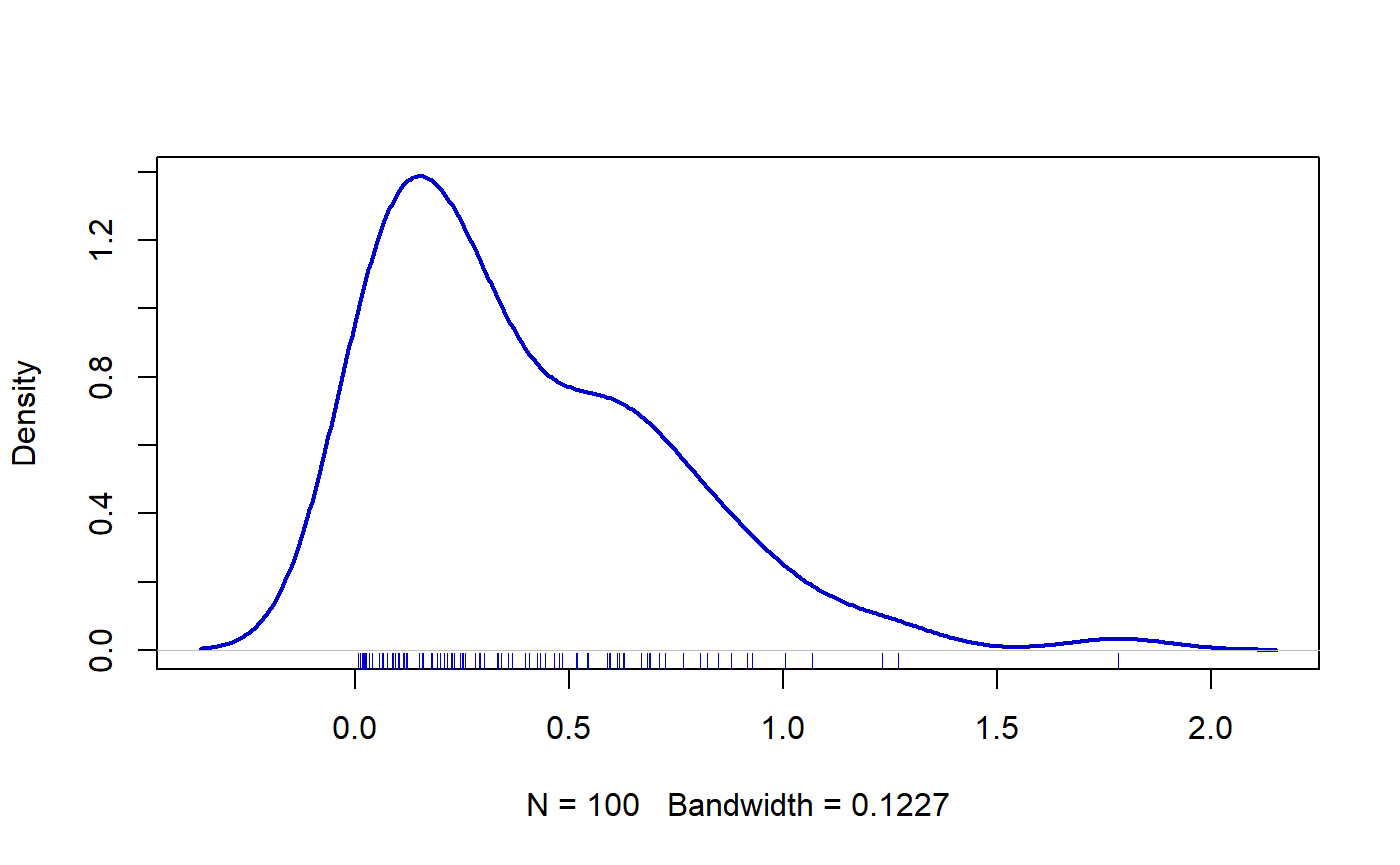
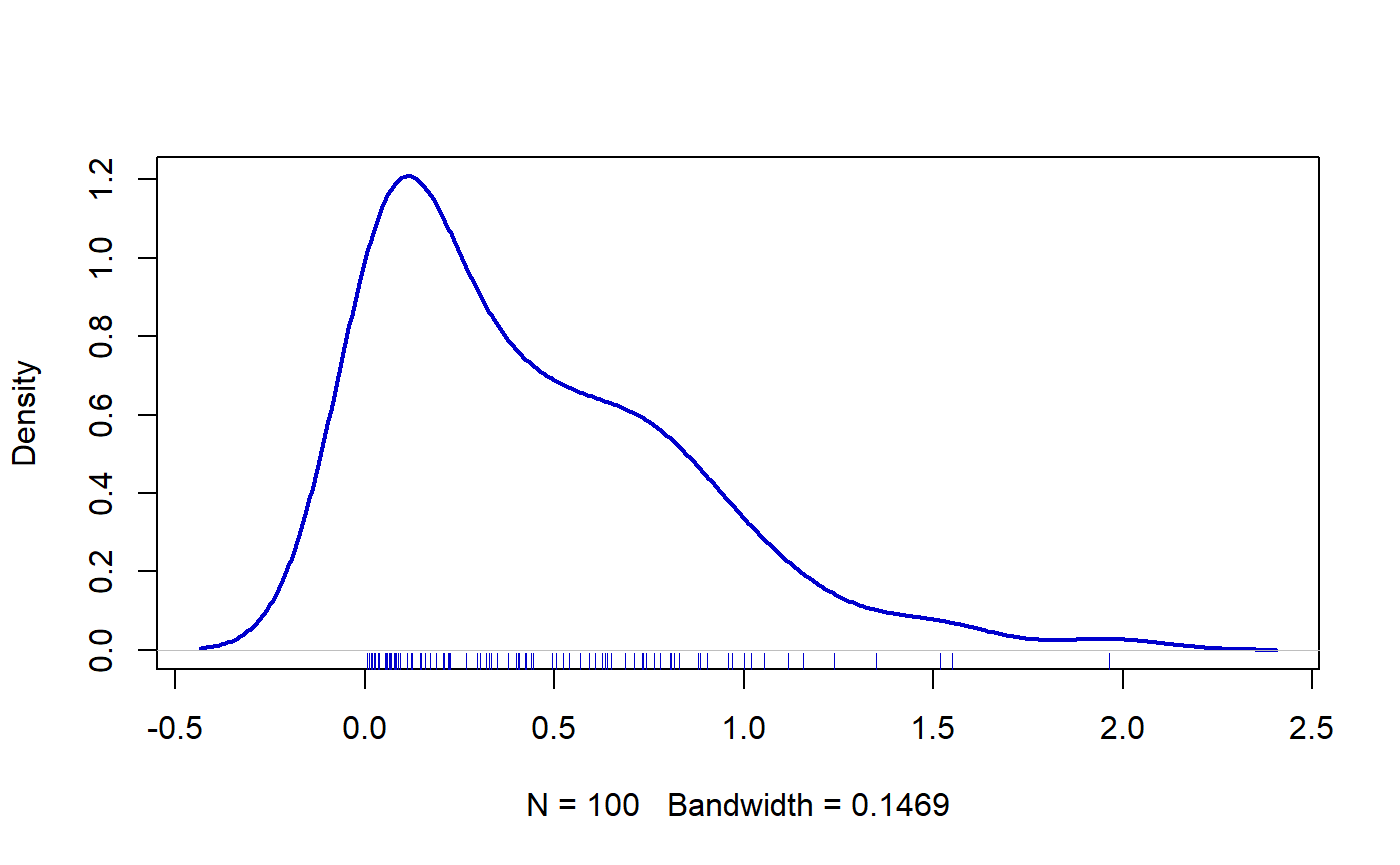
se revisó la viñeta

diff --git a/docs/articles/EW distribution.html b/docs/articles/EW distribution.html
@@ -97,16 +97,16 @@
 <div class="sourceCode"><pre class="sourceCode r"><code class="sourceCode r"><span class="kw">require</span>(gamlss)
 mod &lt;-<span class="st"> </span><span class="kw">gamlss</span>(y<span class="op">~</span><span class="dv">1</span>, <span class="dt">sigma.fo=</span><span class="op">~</span><span class="dv">1</span>, <span class="dt">nu.fo=</span><span class="op">~</span><span class="dv">1</span>, <span class="dt">family=</span><span class="st">'EW'</span>,
               <span class="dt">control=</span><span class="kw">gamlss.control</span>(<span class="dt">n.cyc=</span><span class="dv">250</span>, <span class="dt">trace=</span><span class="ot">FALSE</span>))</code></pre></div>
-<p>To obtain the fitted values for <span class="math inline">\(\mu\)</span>, <span class="math inline">\(\sigma\)</span> and <span class="math inline">\(\nu\)</span> we use the inverse link function.</p>
+<p>To obtain the fitted values for <span class="math inline">\(\mu\)</span>, <span class="math inline">\(\sigma\)</span> and <span class="math inline">\(\nu\)</span> we use the inverse link function <span class="math inline">\(\log()\)</span>.</p>
 <div class="sourceCode"><pre class="sourceCode r"><code class="sourceCode r"><span class="kw">exp</span>(<span class="kw">coef</span>(mod, <span class="dt">what=</span><span class="st">'mu'</span>))
 ## (Intercept) 
-##    2.161059
+##    1.535271
 <span class="kw">exp</span>(<span class="kw">coef</span>(mod, <span class="dt">what=</span><span class="st">'sigma'</span>))
 ## (Intercept) 
-##    1.588992
+##    1.633327
 <span class="kw">exp</span>(<span class="kw">coef</span>(mod, <span class="dt">what=</span><span class="st">'nu'</span>))
 ## (Intercept) 
-##   0.5469474</code></pre></div>
+##     0.45086</code></pre></div>
 <p>The results show that estimated parameters are close the true parameters <span class="math inline">\(\mu\)</span>, <span class="math inline">\(\sigma\)</span> and <span class="math inline">\(\nu\)</span>.</p>
 </div>
 <div id="with-covariates" class="section level2">
